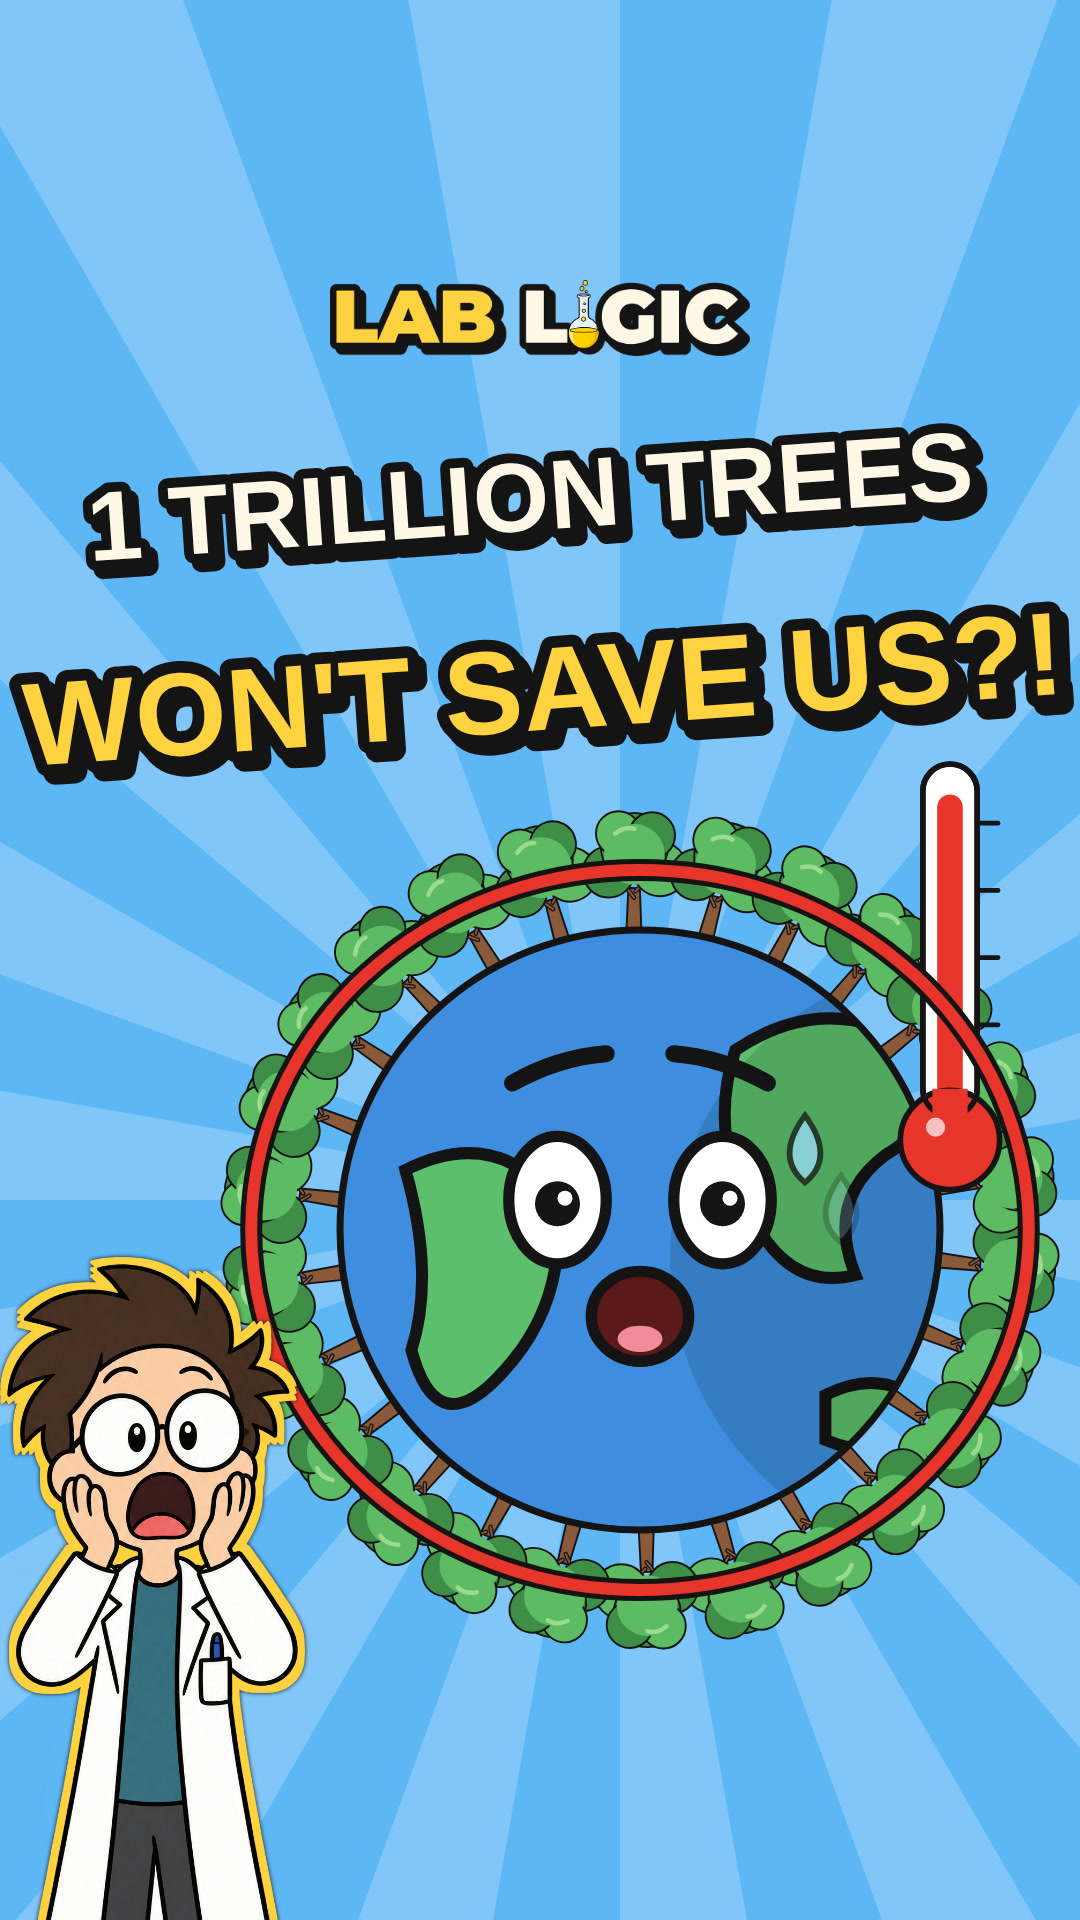
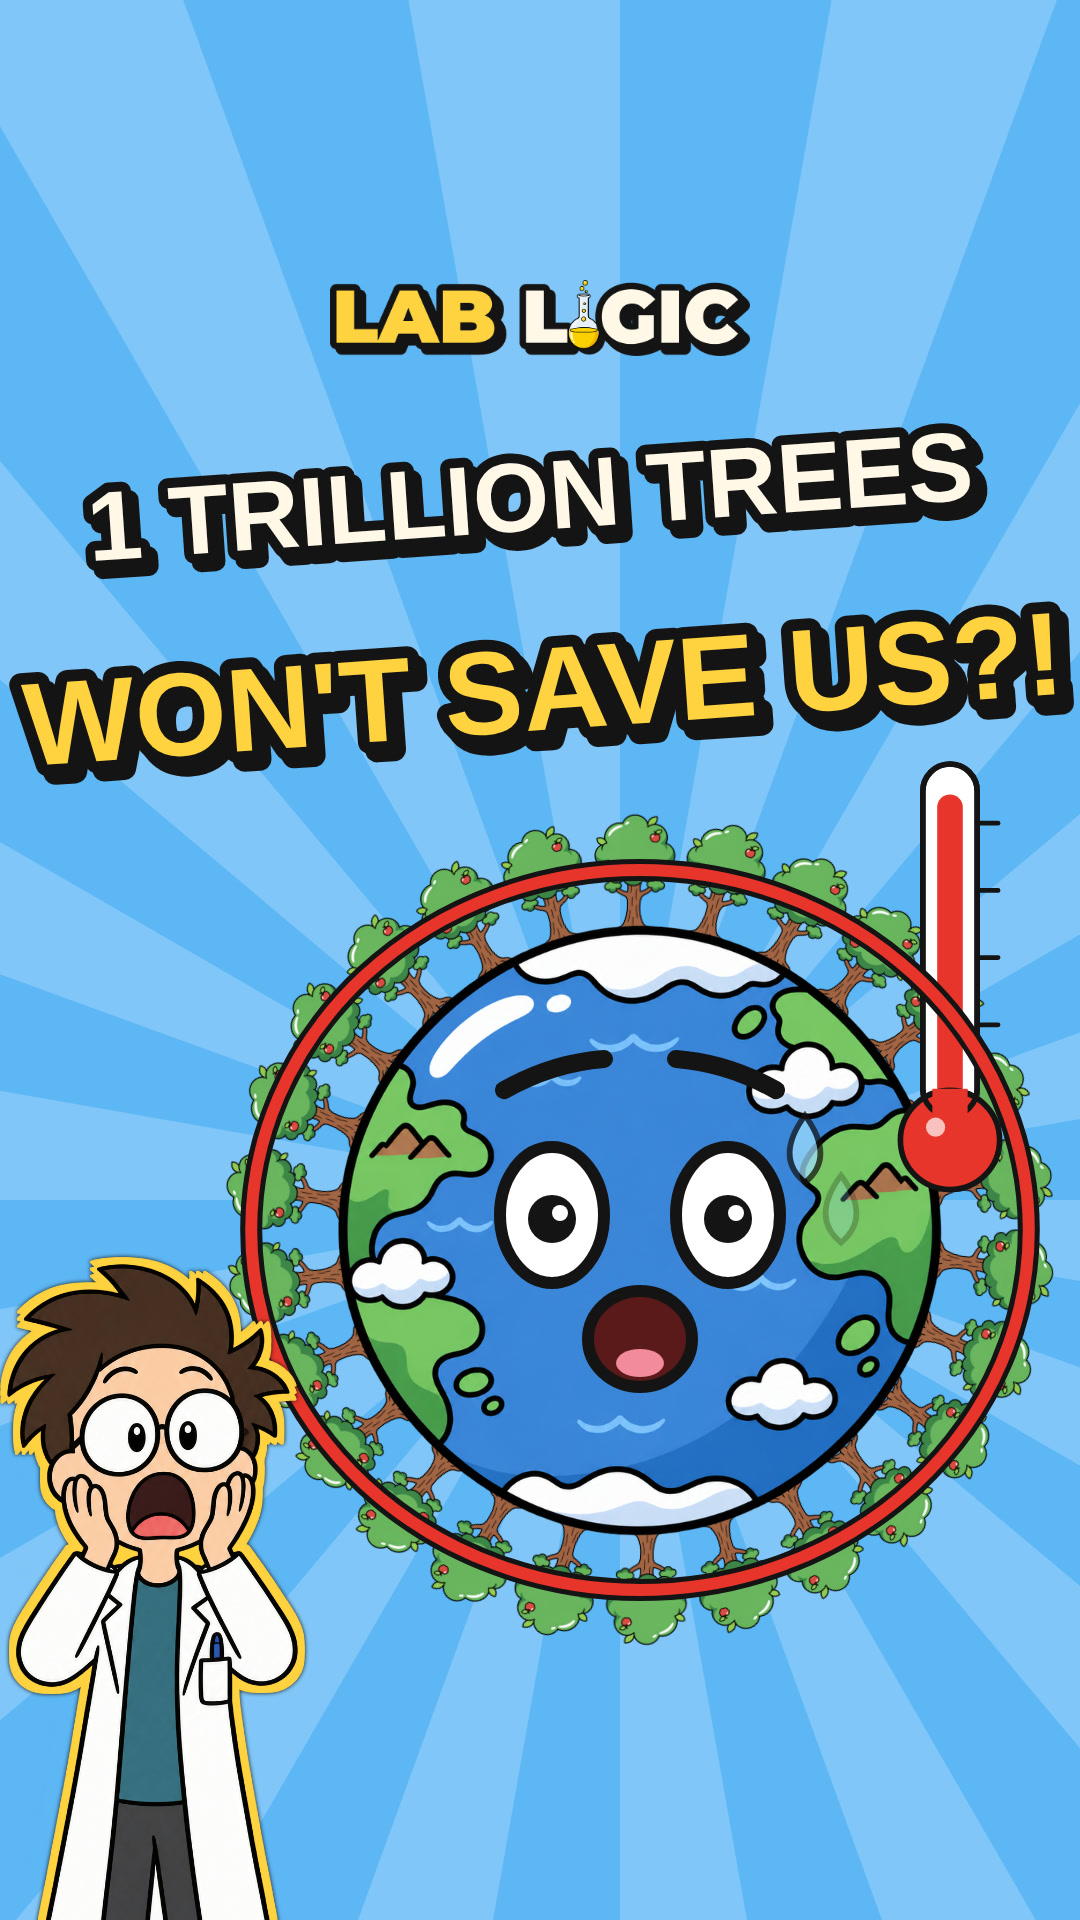
Trees Short: Higgsfield main characters (tree, Earth) with code faces; grounded forest rows
Claude-Session: https://claude.ai/code/session_015xk9XDSoC2XGKGSmzAa8PH

Changed region(s): [[0.1833, 0.4062, 0.9778, 0.875], [0.8861, 0.5, 0.9167, 0.5312]]

diff --git a/video/src/trees/Main.tsx b/video/src/trees/Main.tsx
@@ -5,7 +5,7 @@ import {Captions} from './Captions';
 import {Sci} from '../iceberg/Sci';
 import {BigText, C, Calendar, FONT_DISPLAY, Face, INK_W, Pill, Sky, Sun, Sunburst, Thermo} from '../iceberg/art';
 import {clamp, easeInOutCubic, easeOutCubic, lerp, pop, prog, rnd, shake} from '../iceberg/anim';
-import {Arrow, Bar, Earth, Stamp} from '../sun/space';
+import {Arrow, Bar, Stamp} from '../sun/space';
 import {BigSci, RedCircle} from '../thumb/SunThumbs';
 import {LayoutProbe} from '../iceberglong/kit';
 import {Flames} from '../blackbox/Main';
@@ -69,27 +69,17 @@ const slam = (t: number, t0: number) => {
 
 type Mood = React.ComponentProps<typeof Face>['mood'];
 
-// Leafy tree, bottom centre (x, y), ~360 px tall at s=1. grow 0..1 scales it up from the ground.
+// Main character: illustrated tree (Higgsfield sprite public/tree/tree.png, 671x1000, face-free crown) with a
+// code-drawn face (blinks, moods), sway from the base and a little breathing. Bottom centre (x, y), ~380 px tall at s=1.
+const TREE_K = 0.38;
 const Tree: React.FC<{x: number; y: number; s?: number; grow?: number; mood?: Mood; t?: number; seed?: number; face?: boolean; rot?: number}> = ({x, y, s = 1, grow = 1, mood = 'happy', t = 0, seed = 0, face = true, rot = 0}) => {
   if (grow <= 0.001) return null;
   const sway = Math.sin(t * 1.6 + seed) * 2.5;
+  const br = 1 + 0.015 * Math.sin(t * 2.2 + seed);
   return (
-    <g transform={`translate(${x} ${y}) rotate(${rot}) scale(${s * grow}) rotate(${sway})`}>
-      <path d="M -24 0 L -18 -150 L 18 -150 L 24 0 Z" fill={BARK} stroke={C.ink} strokeWidth={6} strokeLinejoin="round" />
-      <path d="M 0 -120 L -40 -170 M 4 -140 L 44 -180" stroke={C.ink} strokeWidth={14} strokeLinecap="round" />
-      <path d="M 0 -120 L -40 -170 M 4 -140 L 44 -180" stroke={BARK} strokeWidth={6} strokeLinecap="round" />
-      {[
-        [-80, -200, 80],
-        [80, -210, 85],
-        [0, -280, 105],
-        [-50, -320, 70],
-        [55, -315, 72],
-      ].map(([cx, cy, r], i) => (
-        <circle key={i} cx={cx} cy={cy} r={r} fill={i % 2 ? LEAF : LEAF_D} stroke={C.ink} strokeWidth={6} />
-      ))}
-      <circle cx={0} cy={-255} r={95} fill={LEAF} />
-      <path d="M -60 -320 Q -30 -345 0 -335" stroke="#9BDB8E" strokeWidth={14} strokeLinecap="round" fill="none" />
-      {face && <Face x={0} y={-245} s={0.55} mood={mood} open={blink(t, seed)} gap={42} />}
+    <g transform={`translate(${x} ${y}) rotate(${rot}) scale(${s * grow * TREE_K} ${s * grow * TREE_K * br}) rotate(${sway}) translate(-330 -995)`}>
+      <image href={staticFile('tree/tree.png')} x={0} y={0} width={671} height={1000} />
+      {face && <Face x={325} y={340} s={1.55} mood={mood} open={blink(t, seed)} gap={44} />}
     </g>
   );
 };
@@ -115,7 +105,7 @@ const Seedling: React.FC<{x: number; y: number; s?: number; t?: number}> = ({x, 
   </g>
 );
 
-// Earth with little trees sprouting around its edge; n = how many trees are up.
+// Main character Earth (Higgsfield sprite public/earth/earth.png + code face) with little trees sprouting around its edge; n = how many trees are up.
 const TreeEarth: React.FC<{x: number; y: number; r: number; n: number; t: number; mood?: Mood; sweat?: number}> = ({x, y, r, n, t, mood = 'worried', sweat = 0}) => (
   <g>
     {Array.from({length: 26}).map((_, i) => {
@@ -123,7 +113,10 @@ const TreeEarth: React.FC<{x: number; y: number; r: number; n: number; t: number
       const g = clamp(n - i);
       return g > 0 ? <Tree key={i} x={x + Math.cos(a) * (r - 6)} y={y + Math.sin(a) * (r - 6)} s={0.32} grow={springIn(g, 0, 1, 10)} rot={(a * 180) / Math.PI + 90} face={false} t={t} seed={i} /> : null;
     })}
-    <Earth x={x} y={y} r={r} rot={t * 0.03} face={{mood, open: blink(t, 2)}} />
+    <g transform={`translate(${x} ${y}) rotate(${Math.sin(t * 0.8) * 2}) scale(${r / 398}) translate(-400 -404)`}>
+      <image href={staticFile('earth/earth.png')} x={0} y={0} width={800} height={809} />
+    </g>
+    <Face x={x} y={y - r * 0.05} s={r / 150} mood={mood} open={blink(t, 2)} gap={44} />
     {sweat > 0 &&
       [0, 1].map((i) => {
         const u = (t * 0.9 + i * 0.5) % 1;
@@ -240,7 +233,7 @@ const HowScene: React.FC<{t: number}> = ({t}) => {
     <Stage cam={{s: punch(t, t0)}}>
       <Layer>
         <Sky />
-        <Ground y={1300} color="#8BC86A" shade="#76B257" />
+        <Ground y={forest ? 1010 : 1300} color="#8BC86A" shade="#76B257" />
         {!forest ? (
           <g>
             <Tree x={540} y={1310} s={2} mood="happy" t={t} seed={1} />
@@ -260,8 +253,8 @@ const HowScene: React.FC<{t: number}> = ({t}) => {
             {Array.from({length: 15}).map((_, i) => {
               const row = Math.floor(i / 5);
               const tx = 140 + (i % 5) * 200 + (row % 2) * 90 - 40;
-              const ty = 1080 + row * 120;
-              return <Tree key={i} x={tx} y={ty} s={0.55} grow={springIn(t, haT - 0.1 + i * 0.05, 0.6, 11)} t={t} seed={i} face={i === 7} mood="happy" />;
+              const ty = 1060 + row * 110;
+              return <Tree key={i} x={tx} y={ty} s={0.42 + row * 0.1} grow={springIn(t, haT - 0.1 + i * 0.05, 0.6, 11)} t={t} seed={i} face={i === 7} mood="happy" />;
             })}
             {t > haT && <BigText x={540} y={560} text="900 MILLION HA" size={96 * slam(t, haT)} fill={C.yellow} />}
             {t > cT - 0.1 && <BigText x={540} y={720} text="205 BILLION T CARBON" size={64 * slam(t, cT - 0.1)} fill={C.paper} />}

diff --git a/.claude/skills/lab-logic/references/higgsfield.md b/.claude/skills/lab-logic/references/higgsfield.md
@@ -69,3 +69,14 @@ Non-character cut-outs: trim + resize by hand and measure anchor points (e.g. be
   2k high 2.75, 2k medium 1.0, 1k medium 0.5. Explore at 1k/2k medium, final sprites at 2k high (4k only for covers or
   hero art). Pay attention to the cost: the user finds 4.25 per picture expensive.
 - SVG.new plugin is installed but its server is blocked by the cloud network proxy (needs its host allowed).
+
+## Main characters per episode (cheap tiered workflow, user rule 2026-11-18)
+- Drafts at 1k medium (0.5) or 2k medium (1.0); final figures at 2k high (2.75) - BUT check the final: the 2k-high
+  redraw of the tree (job `6a343016-...`) came back with a transparent hole where the face area was, so the 2k-medium
+  draft was used. If a draft already looks clean at the size it is shown (~400-600 px), keep it and say so.
+- Ask for "a large plain smooth area where a face will be added later - NO face" so the code face (art.tsx `Face`,
+  blinks + moods) sits on the sprite. No second "blank" edit needed then.
+- Trees episode: tree job `a07e289a-c7ac-4fa3-9966-ab4706daec58` (`video/public/tree/tree.png`, 671x1000, base
+  (330, 995), face at (325, 340) s 1.55), Earth job `99706b77-4b4b-4c38-9eac-a18425ffed44` (`video/public/earth/earth.png`,
+  800x809, centre (400, 404), r ~398). Both reusable in later episodes.
+- Ground check: every object that stands must stand on the ground line (the user caught floating back rows of trees).

diff --git a/.claude/skills/lab-logic/references/episodes.md b/.claude/skills/lab-logic/references/episodes.md
@@ -236,4 +236,6 @@ long-forms from new Shorts (Shorts "Related video" link + pinned comment).
 - Facts (search snippets): Bastin et al. Science 2019 (0.9 bn ha, 205 GtC); Veldman et al. comment ("factor of 5
   overestimate"); erratum 2020; GCP 2023 fossil CO2 36.8 Gt; 205 GtC = ~750 GtCO2 = ~20 years; Arctic/boreal planting
   can warm via albedo (Nature Geoscience commentary, 2025 coverage); fires release carbon.
-- Costs: 1,197 ElevenLabs credits (voice only). Higgsfield 0, SFX 0.
+- Main characters (after the user's reminder): illustrated tree + Earth from Higgsfield with code faces.
+- Costs: 1,197 ElevenLabs credits (voice); Higgsfield 4.25 (tree draft 1.0 used, tree 2k-high 2.75 failed, Earth
+  draft 0.5 used); SFX 0.
